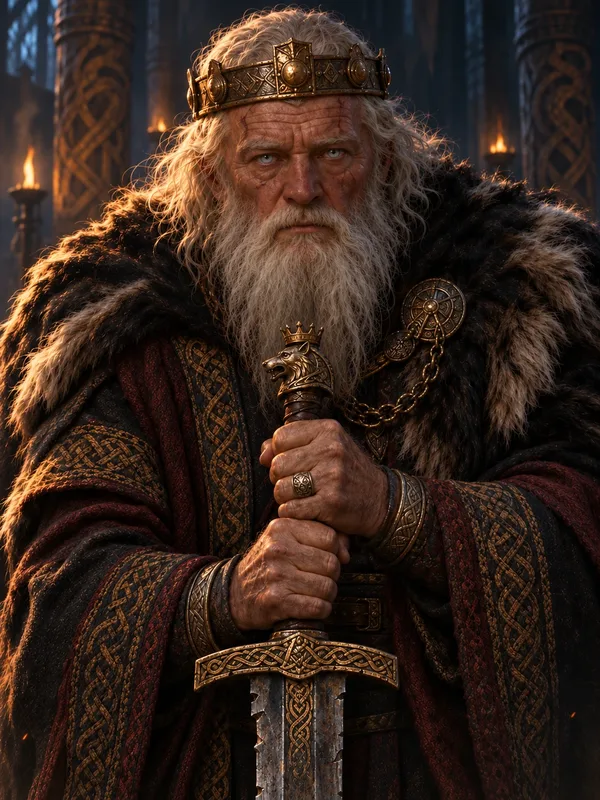
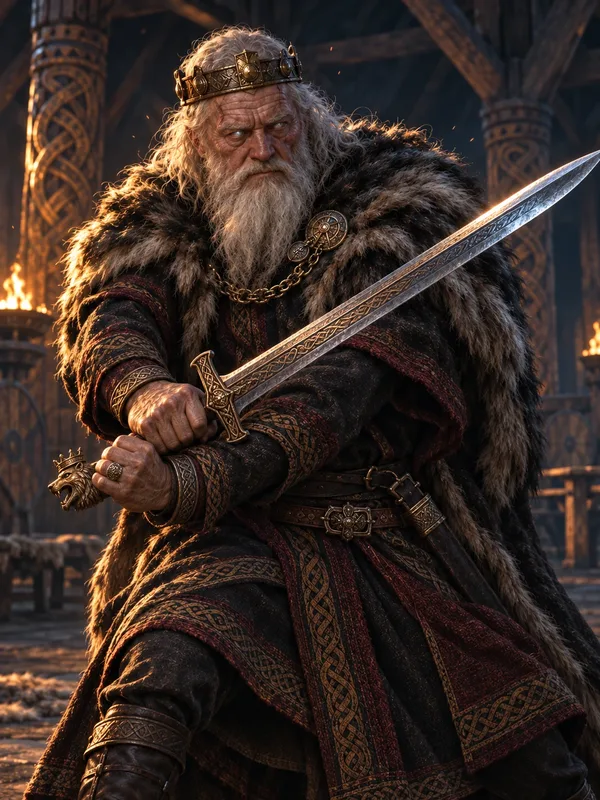
Add Astrid defeat panels and redrawn awakened king forms
Claude-Session: https://claude.ai/code/session_018DsforeThe2Xf67NaWvTXc

diff --git a/viking-game/index.html b/viking-game/index.html
@@ -1131,7 +1131,7 @@ const rate=p=>`成功率 ${pct(clamp(p,.03,.97))}`;
 
 /* ================= 插圖 ================= */
 // 已經放進 art/ 的插圖。新圖到了就把檔名加進來，畫面會自動用上
-const ART_HAVE=new Set(['sc_k_awaken','sc_k_boast','sc_k_stance','sc_rv_dock','sc_rv_raid1','sc_rv_raid2','sc_rv_fire','sc_rv_kneel','sc_rv_kneel_1','sc_rv_kneel_2','sc_d3_wall','sc_d3_envoy','sc_d3_sigurd','sc_d3_brynhild','sc_d3_king','sc_d3_hrolf','sc_win_astrid','sc_win_ragnar','sc_win_bjorn','sc_win_sigrid','sc_s_sow','sc_s_midsummer','sc_s_harvest','sc_s_icefish','sc_tribe_1','sc_tribe_2','sc_tribe_3','sc_tribe_4','sc_tribe_5','sc_tribe_6','b_longhouse','b_granary','b_smithy','b_barracks','b_dock','b_altar','b_hall','b_tower','b_market','b_yard','b_sauna','b_runehut','b_ancestor','b_shipyard','o_hunter','o_sailor','o_skald','o_smith','sc_k_drag','sc_k_dismount','sc_k_eyes','sc_k_promise','sc_k_reach','sc_k_sword','sc_k_gaze','sc_rag_freyja','sc_rag_people','sc_rag_thor','sc_rag_tyr','sc_rag_giants','sc_rag_horn','sc_rag_loki','sc_rag_odin','sc_rag_ours','v_halfdan3','sc_wessex_0','sc_york_3b','sc_k_advance','sc_paris_1','sc_paris_2','sc_paris_3','sc_wessex_3','sc_wessex_1','sc_wessex_2','sc_york_1','sc_york_2','sc_york_3','sc_beach_wall','sc_dane_victory','sc_war_council','sc_war_gunnhild','sc_war_sweyn','c_thorstein','sc_q_astrid','sc_q_sigrid','v_halfdan2a','v_halfdan2c','c_astrid','c_bragi','c_einar','c_gudrun','c_guthorm','c_hakon','c_hrolf','c_knut','c_ragnar','c_thorfinn','c_una','s_brynhild','s_gormflaith','s_gunnhild','s_ingrid','s_sweyn','g_freyja','g_hnoss','s_sitric','v_harald','v_palna','g_loki','g_odin','g_thor','g_tyr','v_halfdan','sc_ch2','sc_ch3','sc_ch4','sc_danes','sc_ch1','sc_coronation','sc_longhouse','sc_ragnarok','sc_tears','sc_valhalla','f_paint','f_frost','f_gold','f_hero','f_raven','m_fenrir','m_garm','m_hrym','m_jormun','m_surtr','v_halfdan2','c_sigrid','sc_einherjar','sc_ragfall','c_bjorn','sc_kiss_m','sc_kiss_f','sc_ragfall_odin','sc_ragfall_thor','sc_ragfall_freyja','sc_ragfall_loki','sc_ragfall_none','sc_ragfall_tyr','sc_k_kneel','sc_k_people','sc_k_push','sc_k_rise','sc_k_slip','sc_coronation_self','sc_k_exec','sc_k_face','sc_k_hall','sc_k_spare','sc_k_ship','sc_k_farm','sc_k_guard','sc_k_mound','sc_k_news','sc_k_bifrost','sc_k_charge','sc_k_axes','sc_k_line','sc_k_gods']);
+const ART_HAVE=new Set(['sc_win_astrid2','sc_win_astrid3','sc_k_awaken','sc_k_boast','sc_k_stance','sc_rv_dock','sc_rv_raid1','sc_rv_raid2','sc_rv_fire','sc_rv_kneel','sc_rv_kneel_1','sc_rv_kneel_2','sc_d3_wall','sc_d3_envoy','sc_d3_sigurd','sc_d3_brynhild','sc_d3_king','sc_d3_hrolf','sc_win_astrid','sc_win_ragnar','sc_win_bjorn','sc_win_sigrid','sc_s_sow','sc_s_midsummer','sc_s_harvest','sc_s_icefish','sc_tribe_1','sc_tribe_2','sc_tribe_3','sc_tribe_4','sc_tribe_5','sc_tribe_6','b_longhouse','b_granary','b_smithy','b_barracks','b_dock','b_altar','b_hall','b_tower','b_market','b_yard','b_sauna','b_runehut','b_ancestor','b_shipyard','o_hunter','o_sailor','o_skald','o_smith','sc_k_drag','sc_k_dismount','sc_k_eyes','sc_k_promise','sc_k_reach','sc_k_sword','sc_k_gaze','sc_rag_freyja','sc_rag_people','sc_rag_thor','sc_rag_tyr','sc_rag_giants','sc_rag_horn','sc_rag_loki','sc_rag_odin','sc_rag_ours','v_halfdan3','sc_wessex_0','sc_york_3b','sc_k_advance','sc_paris_1','sc_paris_2','sc_paris_3','sc_wessex_3','sc_wessex_1','sc_wessex_2','sc_york_1','sc_york_2','sc_york_3','sc_beach_wall','sc_dane_victory','sc_war_council','sc_war_gunnhild','sc_war_sweyn','c_thorstein','sc_q_astrid','sc_q_sigrid','v_halfdan2a','v_halfdan2c','c_astrid','c_bragi','c_einar','c_gudrun','c_guthorm','c_hakon','c_hrolf','c_knut','c_ragnar','c_thorfinn','c_una','s_brynhild','s_gormflaith','s_gunnhild','s_ingrid','s_sweyn','g_freyja','g_hnoss','s_sitric','v_harald','v_palna','g_loki','g_odin','g_thor','g_tyr','v_halfdan','sc_ch2','sc_ch3','sc_ch4','sc_danes','sc_ch1','sc_coronation','sc_longhouse','sc_ragnarok','sc_tears','sc_valhalla','f_paint','f_frost','f_gold','f_hero','f_raven','m_fenrir','m_garm','m_hrym','m_jormun','m_surtr','v_halfdan2','c_sigrid','sc_einherjar','sc_ragfall','c_bjorn','sc_kiss_m','sc_kiss_f','sc_ragfall_odin','sc_ragfall_thor','sc_ragfall_freyja','sc_ragfall_loki','sc_ragfall_none','sc_ragfall_tyr','sc_k_kneel','sc_k_people','sc_k_push','sc_k_rise','sc_k_slip','sc_coronation_self','sc_k_exec','sc_k_face','sc_k_hall','sc_k_spare','sc_k_ship','sc_k_farm','sc_k_guard','sc_k_mound','sc_k_news','sc_k_bifrost','sc_k_charge','sc_k_axes','sc_k_line','sc_k_gods']);
 const CHAMP_ART={halfdan2:'v_halfdan2',halfdan2a:'v_halfdan2a',halfdan2c:'v_halfdan2c',halfdan3:'v_halfdan3',bjorn:'c_bjorn',sigrid:'c_sigrid',hakon:'c_hakon',astrid:'c_astrid',thorfinn:'c_thorfinn',sven:'c_hrolf',una:'c_una',bragi:'c_bragi',einar:'c_einar',gudrun:'c_gudrun',ragnar:'c_ragnar',osric:'c_guthorm',knut:'c_knut',
   ingrid:'s_ingrid',brynhild:'s_brynhild',gunnhild:'s_gunnhild',sweyn:'s_sweyn',gormflaith:'s_gormflaith',sitric:'s_sitric',
   odin:'g_odin',thor:'g_thor',tyr:'g_tyr',freyja:'g_freyja',loki:'g_loki',hnoss:'g_hnoss',harald:'v_harald',palna:'v_palna',halfdan:'v_halfdan'};

diff --git a/viking-game/art-prompts.md b/viking-game/art-prompts.md
@@ -101,9 +101,9 @@ The same burning camp. Hrolf (late twenties, the arrogant son of a jarl, red-bro
 | 1 | sc_k_boast | 「我殺過的人，比你見過的還多！」 （✅ 已收到） |
 | 2 | sc_k_awaken | 老王覺醒的過程 （✅ 已收到） |
 | 3 | sc_k_stance | 起手式 （✅ 已收到） |
-| 4 | v_halfdan2a | 第一型態（重畫：拔劍、有動作） |
-| 5 | v_halfdan2 | 第二型態（重畫：更強） |
-| 6 | v_halfdan2c | 第三型態（重畫：完全覺醒，最帥） |
+| 4 | v_halfdan2a | 第一型態（重畫：拔劍、有動作） （✅ 已收到） |
+| 5 | v_halfdan2 | 第二型態（重畫：更強） （✅ 已收到） |
+| 6 | v_halfdan2c | 第三型態（重畫：完全覺醒，最帥） （✅ 已收到） |
 
 **1. sc_k_boast（「我殺過的人，比你見過的還多！」）**
 
@@ -159,8 +159,8 @@ Old King Halfdan of Norway (around seventy, long white beard and hair, gold knot
 
 | # | 檔名 | 內容 |
 |---|---|---|
-| 1 | sc_win_astrid2 | 阿斯特麗德背對你撿盾 |
-| 2 | sc_win_astrid3 | 阿斯特麗德單膝跪下 |
+| 1 | sc_win_astrid2 | 阿斯特麗德背對你撿盾 （✅ 已收到） |
+| 2 | sc_win_astrid3 | 阿斯特麗德單膝跪下 （✅ 已收到） |
 | 3 | sc_win_ragnar2 | 拉格納一把抱住你 |
 | 4 | sc_win_bjorn2 | 比約恩吐血坐起來 |
 | 5 | sc_win_bjorn3 | 咬爛的盾牌特寫 |
